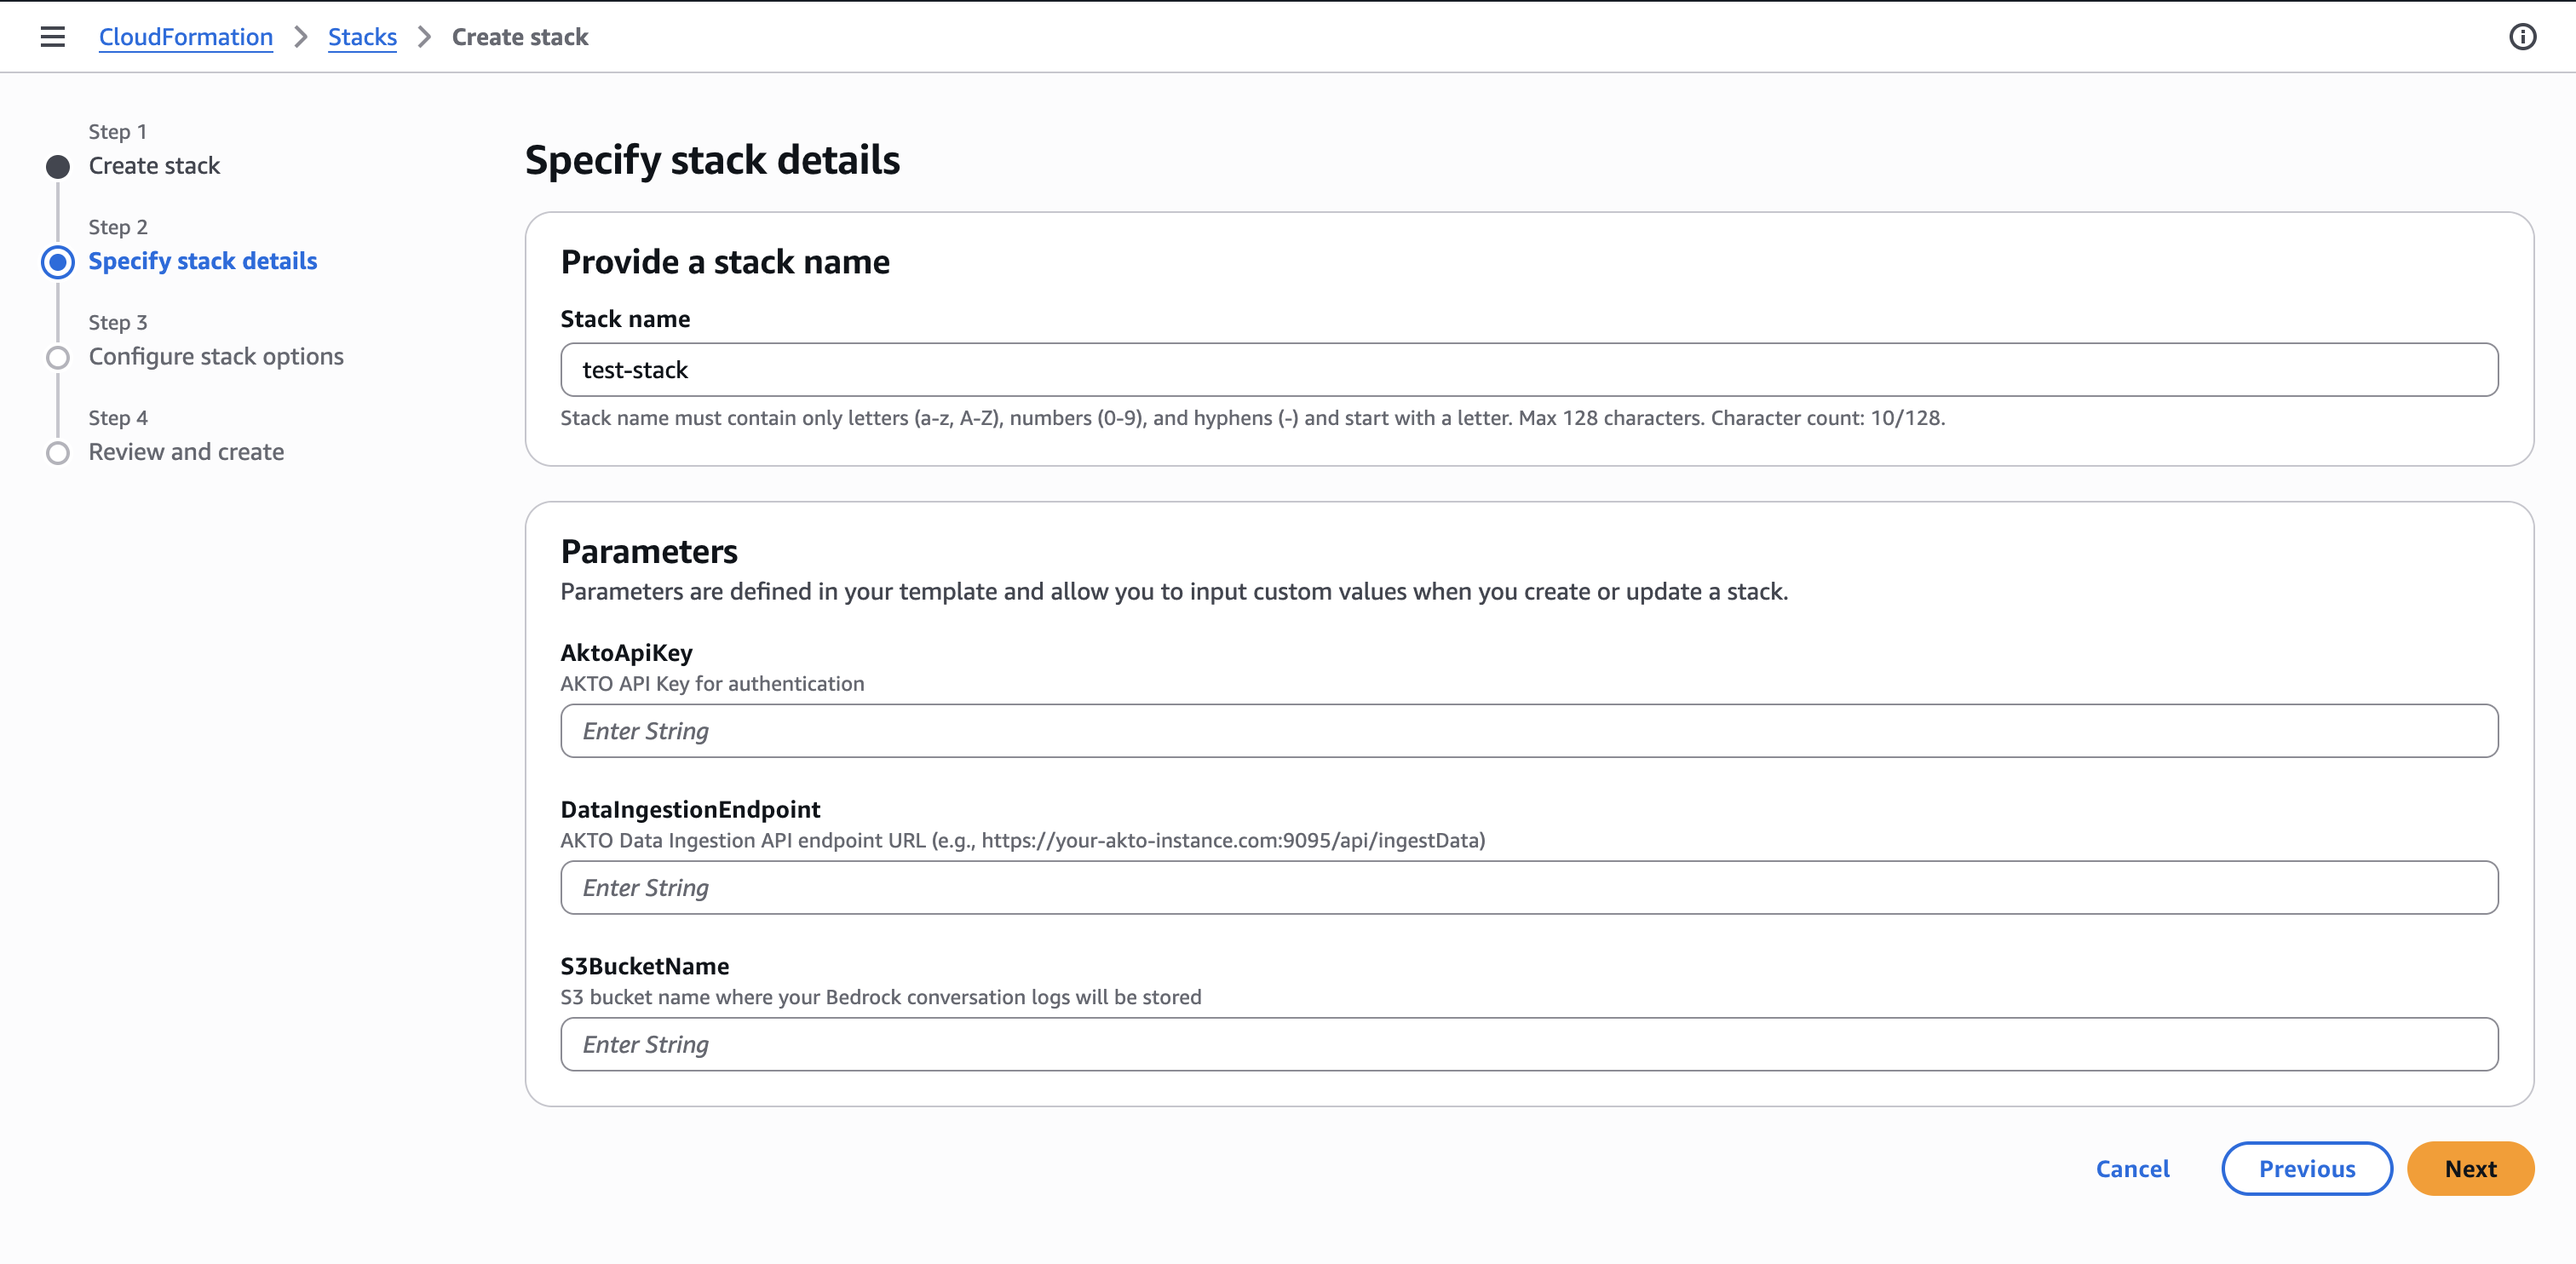
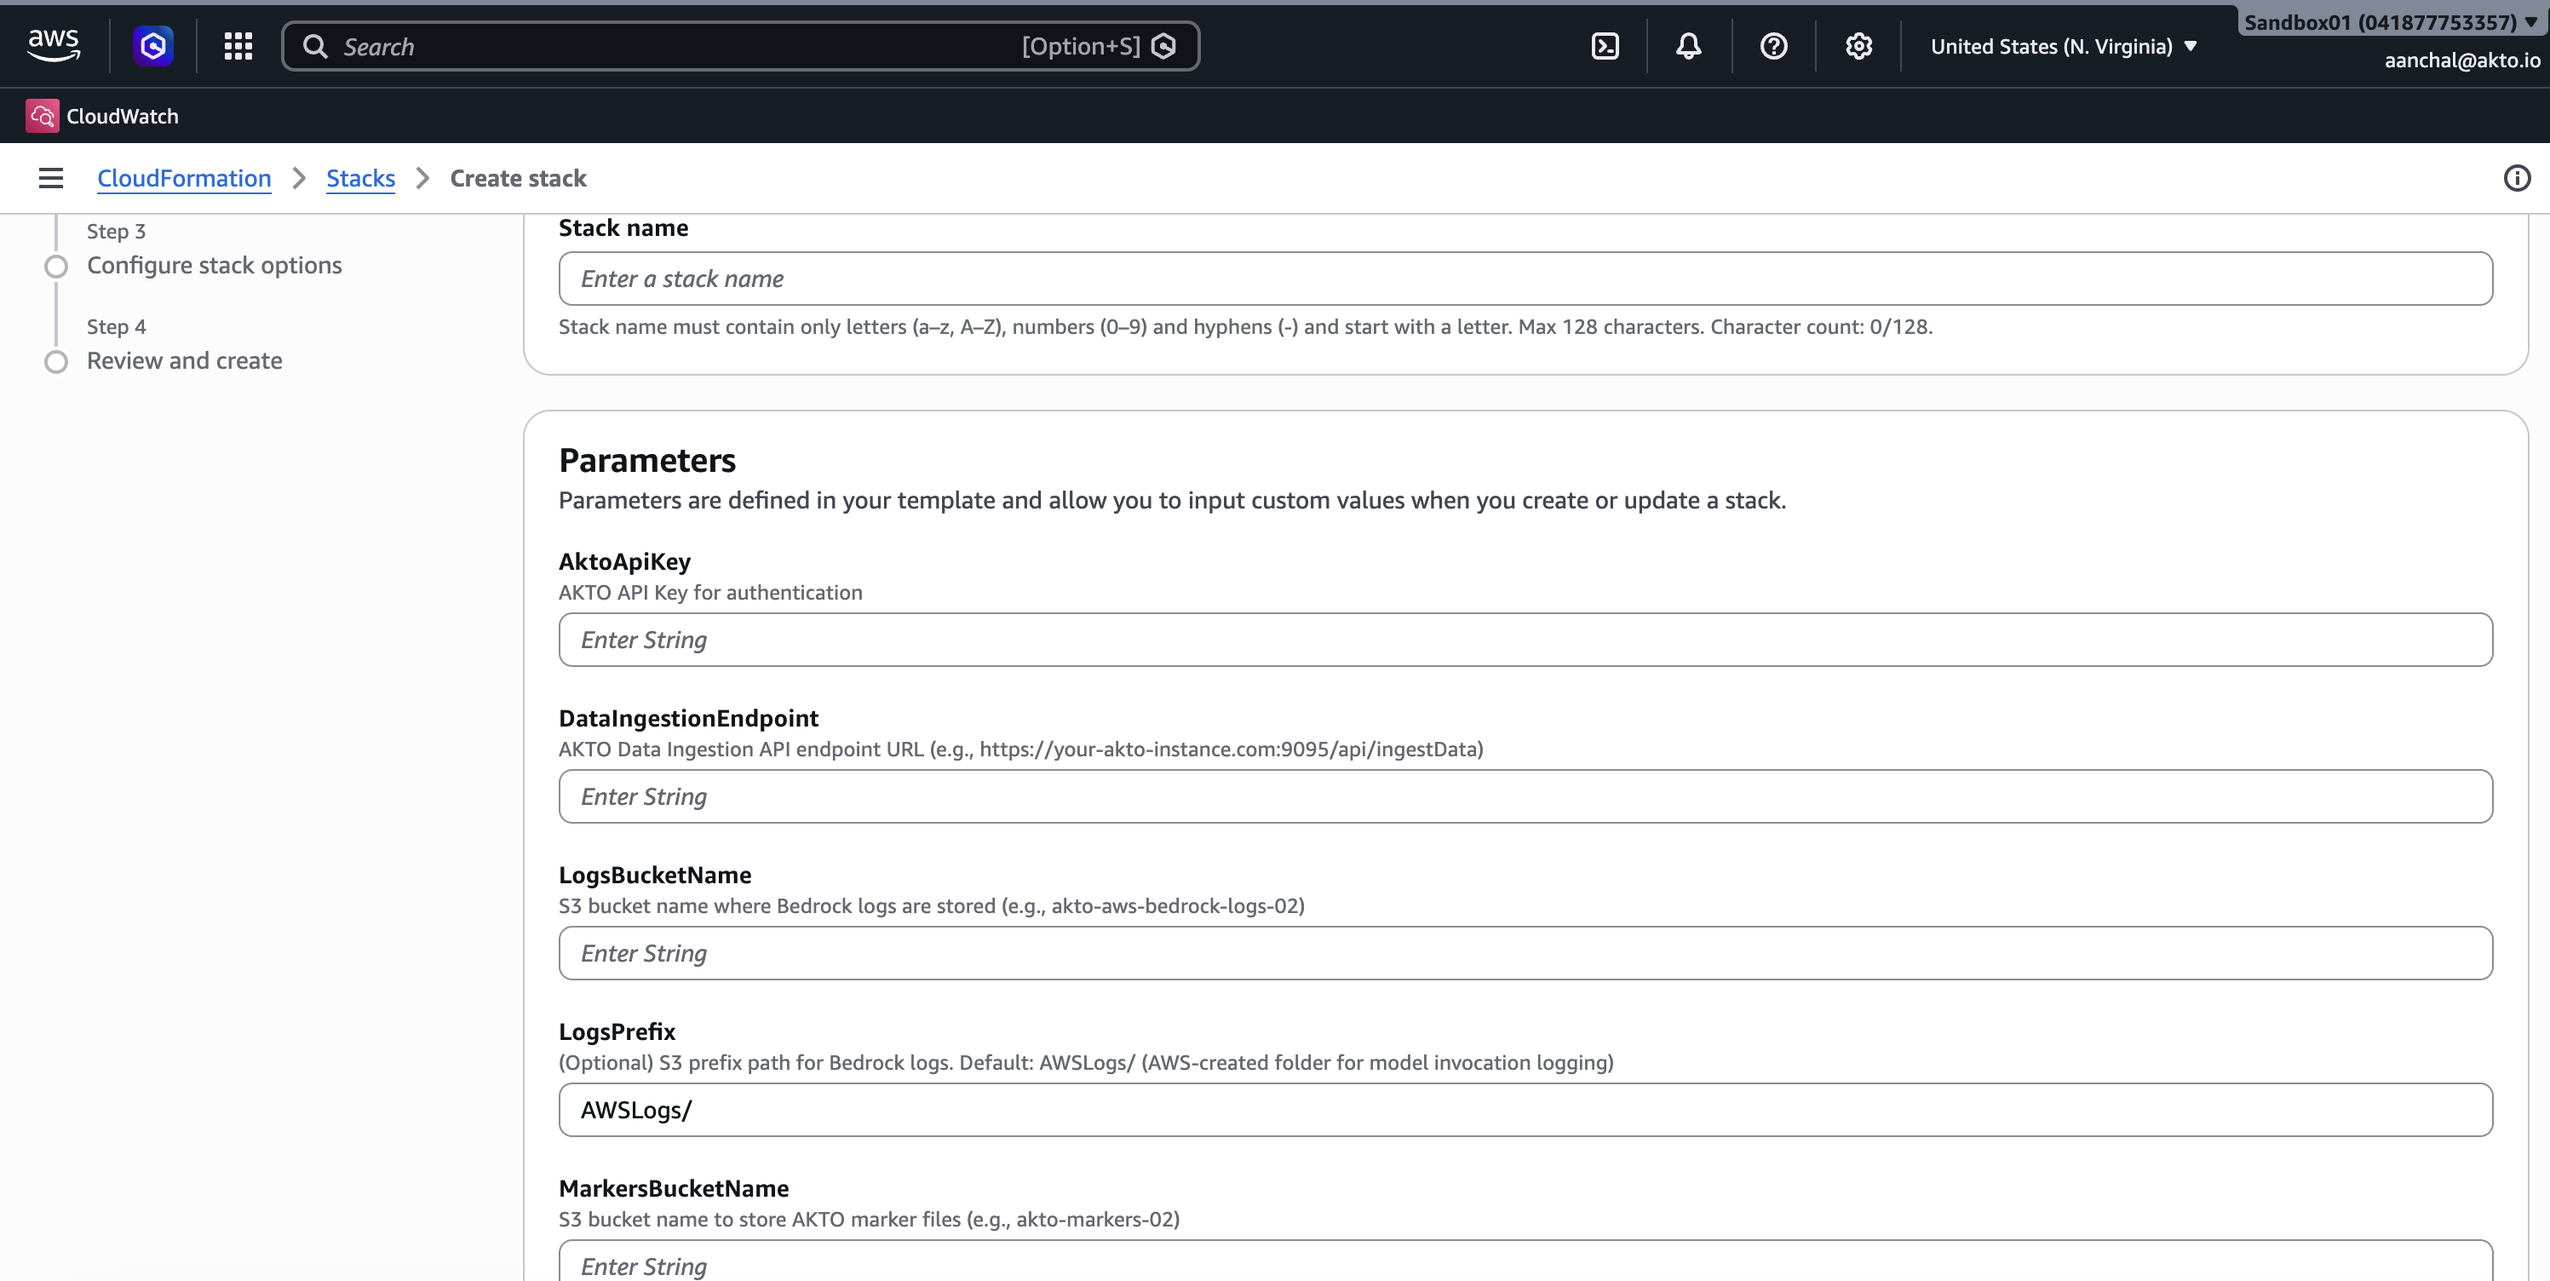
aws doc updated

diff --git a/akto-argus-agentic-ai-security-for-homegrown-ai/connectors/ai-agent-security/connect-akto-with-aws-bedrock.md b/akto-argus-agentic-ai-security-for-homegrown-ai/connectors/ai-agent-security/connect-akto-with-aws-bedrock.md
@@ -52,14 +52,24 @@ flowchart LR
 
 Before running the deployment, gather this information:
 
-1. **S3 Bucket Name**: A bucket name for storing Bedrock logs where you have enabled model invocation logging
+1. **S3 Bucket Name - LogsBucketName**: A bucket name where Bedrock logs are stored ie. where you have enabled model invocation logging
    * Make sure that you have enabled 'Model invocation logging' and the S3 bucket configured for invocation logs need to be provided.
    * Go to Amazon Bedrock - Settings - Check 'Model invocation logging' and the S3 logging destination selected. If not enabled, there would be no discovery possible.
    * Example: `my-company-bedrock-logs-2026`
-2. **AKTO Data Ingestion URL**: Your AKTO endpoint
+2. **LogsPrefix**: (Optional) S3 prefix path for Bedrock logs. Default: AWSLogs/
+    * Check 'Model invocation logging' and check the S3 location prefix configured for the bucket
+    * Example: S3 location : `s3://akto-aws-bedrock-logs-02/bedrock-logs/`
+    * In the above eg : LogsBucketName would be akto-aws-bedrock-logs-02 and LogsPrefix would be bedrock-logs/
+    * This is optional field, if user has not configured any prefix then by default AWSLogs/ will be configured
+
+<div data-with-frame="true"><figure><img src="../../../.gitbook/assets/model_invocation.png" alt="" width="563"><figcaption></figcaption></figure></div>
+
+3.  **S3 Bucket Name - MarkersBucketName**: S3 bucket name to store AKTO marker files for processed conversations
+    * Example: `akto-marker-logs`
+4. **AKTO Data Ingestion URL**: Your AKTO endpoint
    * Format: `https://your-akto-instance.com/api/ingestData`
    * Contact AKTO support team to obtain your Data Ingestion URL
-3. **AKTO API Key**: Authentication key for your AKTO instance
+5. **AKTO API Key**: Authentication key for your AKTO instance
    * Navigate to: **AKTO Argus** → **Connectors** → **Setup Guardrails**
    * Copy the API key from there
 {% endstep %}
@@ -98,6 +108,9 @@ Fill in the form with your information:
 
 * **S3BucketName**: Enter the S3 bucket name you gathered in Step 1
   * Example: `my-company-bedrock-logs-2026`
+* **LogsPrefix**: (Optional) S3 prefix path for Bedrock logs
+  * Example: `bedrock-logs`
+* **MarkersBucketName**: S3 bucket name to store AKTO marker files
 * **DataIngestionEndpoint**: `<URL-obtained-from-akto-team>`
 * **AktoApiKey**: `<Akto-API-Key>`&#x20;
 
